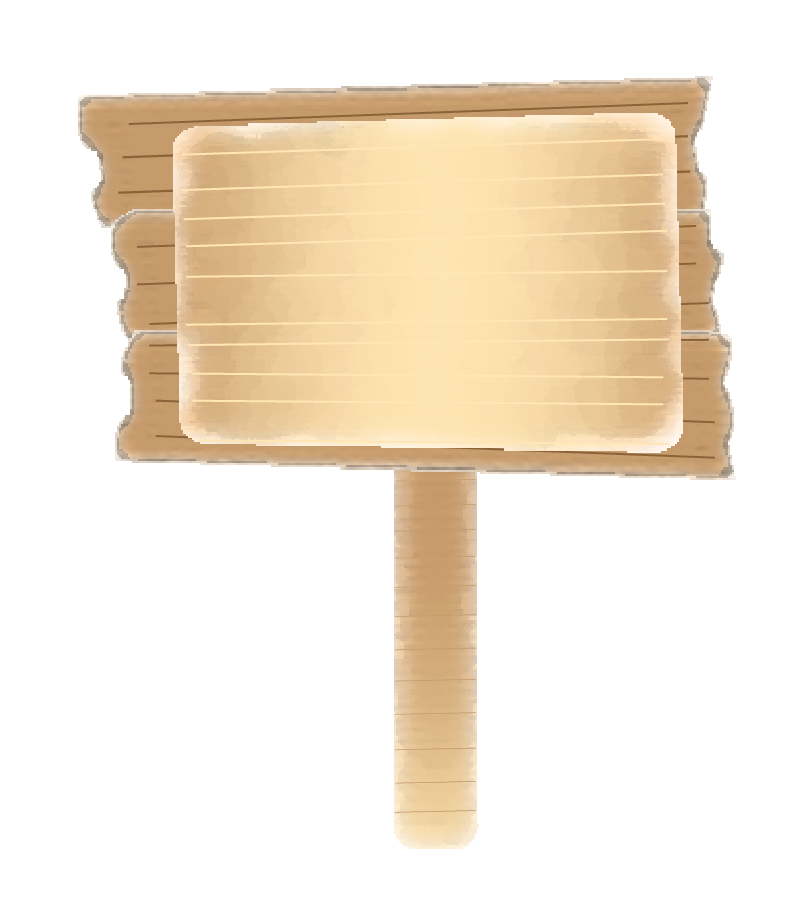
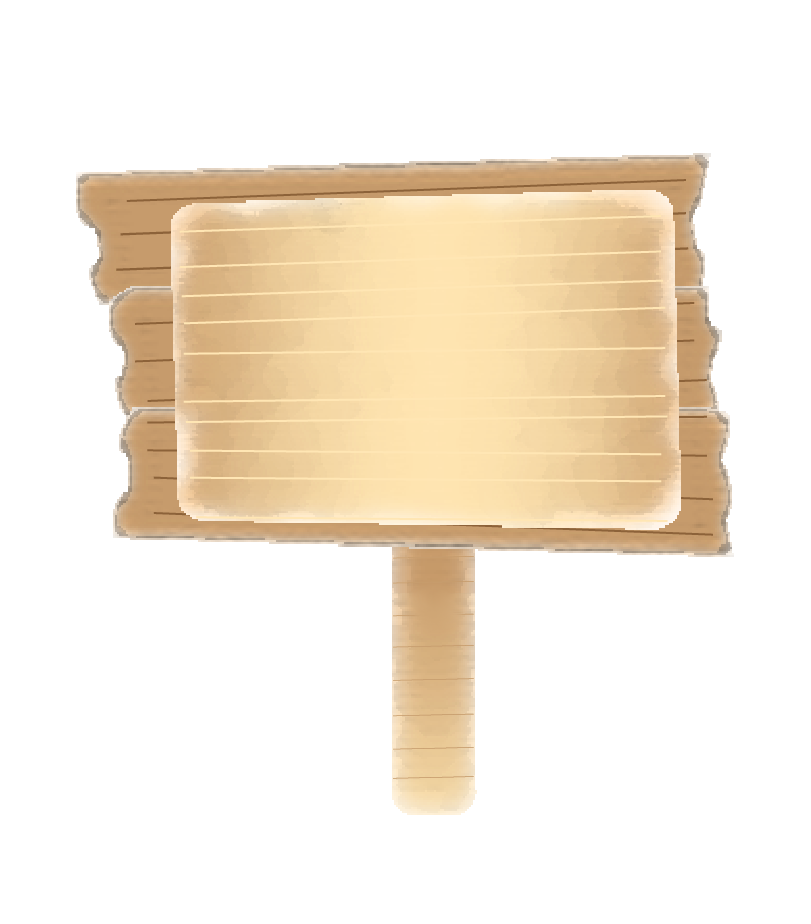
ゲームほぼ完成

Changed region(s): [[0.0925, 0.0606, 0.9248, 0.6364], [0.4624, 0.8485, 0.5857, 0.9394], [0.4624, 0.697, 0.4932, 0.7273]]

diff --git a/CTextureLoader.h b/CTextureLoader.h
@@ -80,6 +80,10 @@ enum class TEX_ID	// テクスチャ識別子列挙型
 	STAGE_VIEW,
 	BG3,
 	KANBAN1,
+	KANBAN2,
+	KANBAN3,
+	KANBAN4,
+	KANBAN5,
 };
 
 // CTextureLoaderクラス
@@ -144,6 +148,10 @@ private:
 		L"asset/stagePreview.png",
 		L"asset/bg3.png",
 		L"asset/kanban1.png",
+		L"asset/kanban2.png",
+		L"asset/kanban3.png",
+		L"asset/kanban4.png",
+		L"asset/kanban5.png",
 	};
 
 	/* メソッド */
